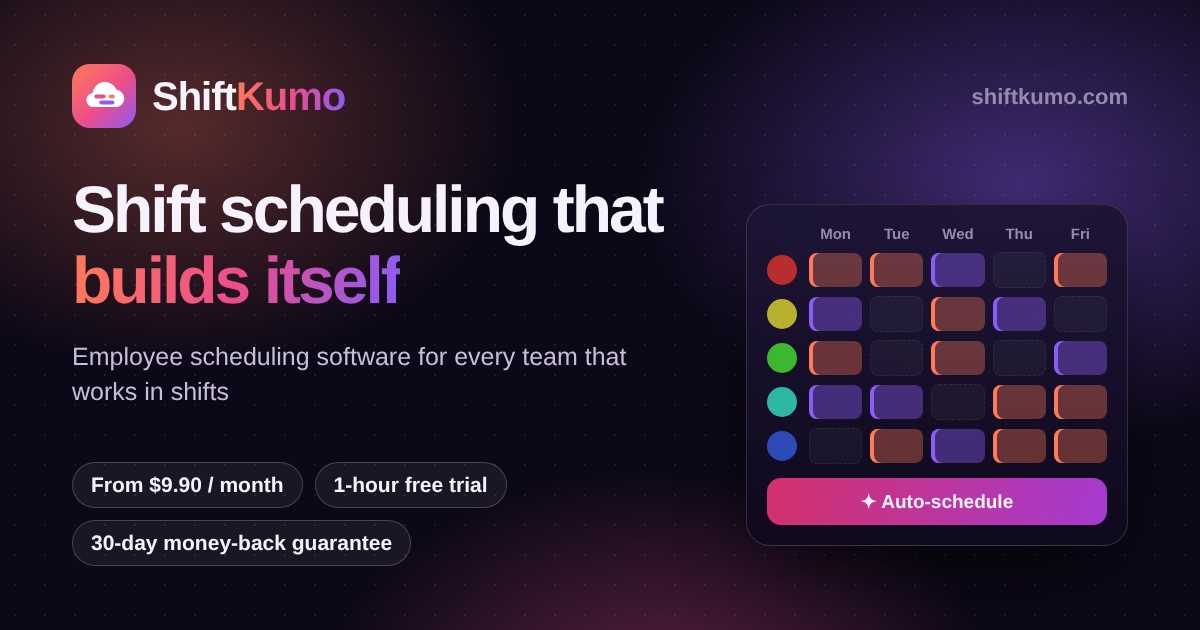
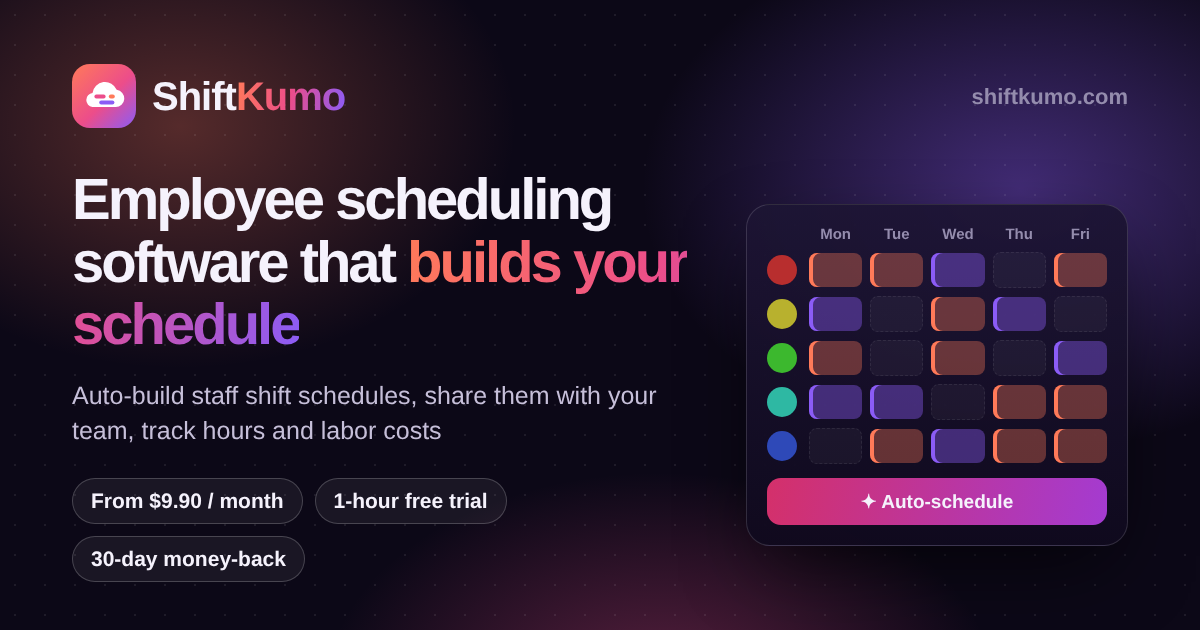
Add a one-sentence product definition and descriptive hero heading
A single sentence now states what ShiftKumo is and does, in English and
Japanese. It is reused as the home meta/OG description, the WebSite and
SoftwareApplication JSON-LD description, the footer text on every page,
the first sentence of the hero and llms.txt.

The home H1 changes from a slogan to a description ("Employee scheduling
software that builds your schedule" / 「シフト表を自動でつくる、シフト管理
サービス」), and the Open Graph images match it.

Claude-Session: https://claude.ai/code/session_01LLYmamFP4Shd3gnMhmuxHc

Changed region(s): [[0.0617, 0.2714, 0.5858, 0.6937], [0.0617, 0.754, 0.4317, 0.9048]]

diff --git a/static/assets/css/site.css b/static/assets/css/site.css
@@ -739,6 +739,7 @@ main:focus {
   margin-bottom: 22px;
 }
 .lang-ja .hero h1 {
+  word-break: keep-all;
   font-size: clamp(2.1rem, 5.6vw, 4.2rem);
   line-height: 1.22;
   letter-spacing: -0.01em;
@@ -749,6 +750,13 @@ main:focus {
 }
 .hero-lead {
   margin-bottom: 32px;
+  max-width: 760px;
+}
+.hero-def {
+  display: block;
+  color: var(--text);
+  font-weight: 600;
+  margin-bottom: 8px;
 }
 .cta-row {
   display: flex;
